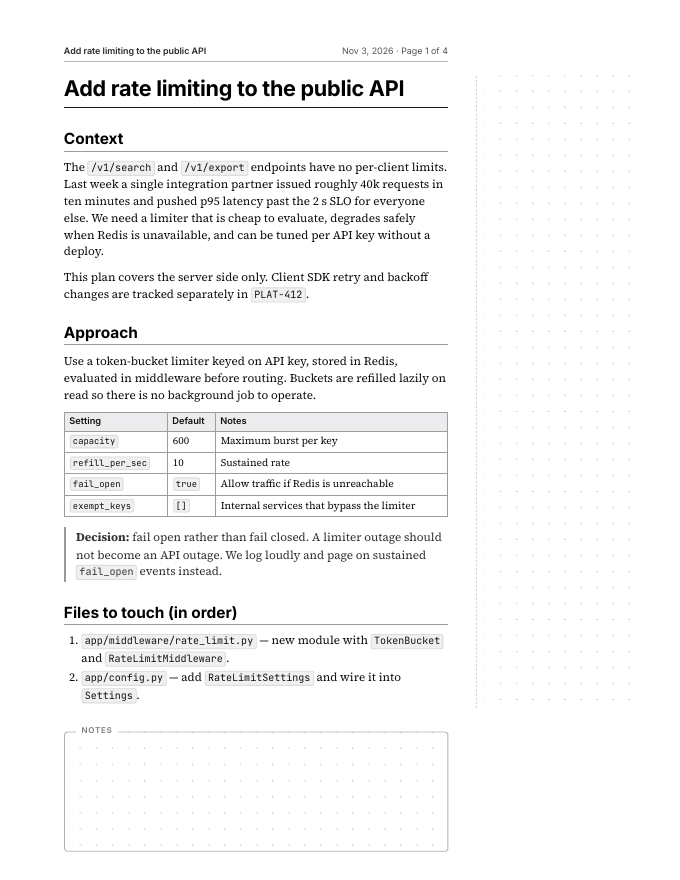
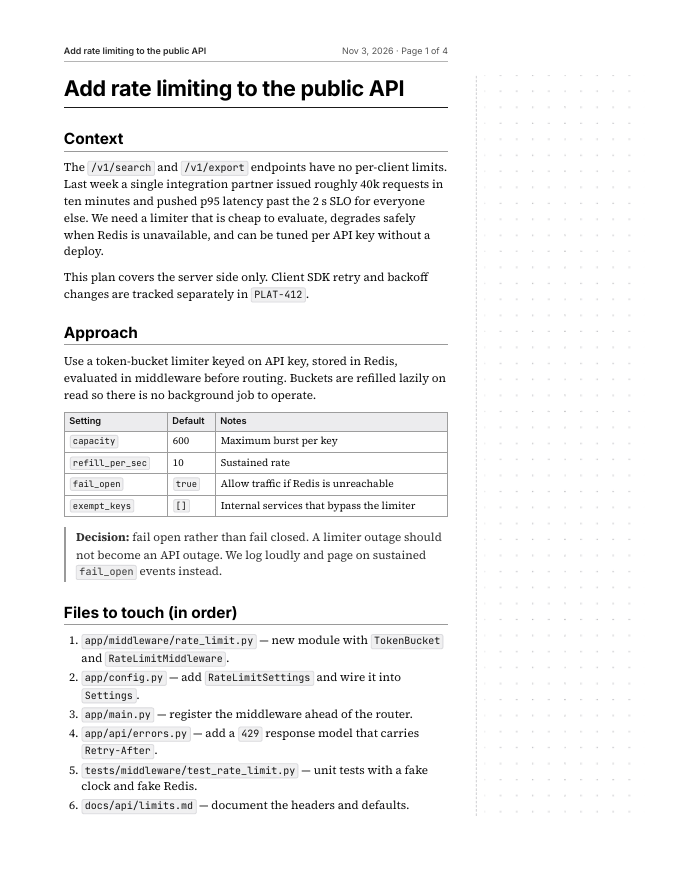
Margin notes layout: drop the bottom notes box
The right-hand dotted column now runs the full text height and replaces the
bottom box, which was redundant in this layout. The Notes box control is
disabled while Margin notes is selected; README and screenshot updated.

Changed region(s): [[0.0926, 0.7977, 0.6176, 0.9205]]

diff --git a/renderer/src/app.js b/renderer/src/app.js
@@ -36,6 +36,7 @@ const LAYOUTS = {
     top: 0.95, left: 1.25, right: 1.25, bodyPt: 11, marginColumn: false,
   },
   margin: {
+    // The dotted right-hand column replaces the bottom notes box in this layout.
     label: 'Margin notes — wide right column',
     top: 0.95, left: 0.8, right: 2.9, bodyPt: 10.5, marginColumn: true,
   },
@@ -315,7 +316,7 @@ function todayString() {
 function geometry(settings) {
   const paper = PAPERS[settings.paper] || PAPERS.letter;
   const layout = LAYOUTS[settings.layout] || LAYOUTS.review;
-  const notesH = (NOTES[settings.notes] || NOTES.medium).h;
+  const notesH = layout.marginColumn ? 0 : (NOTES[settings.notes] || NOTES.medium).h;
   // Notes box sits 0.35in above the sheet edge, with 0.3in between it and the text.
   const bottom = notesH > 0 ? Number((notesH + 0.35 + 0.3).toFixed(3)) : 0.8;
   return {
@@ -551,6 +552,9 @@ function syncControls() {
   els.pattern.value = PATTERNS[s.pattern] ? s.pattern : DEFAULTS.pattern;
   els.zoom.value = ZOOMS[s.zoom] ? s.zoom : DEFAULTS.zoom;
   els.breakH2.checked = Boolean(s.breakH2);
+  const usesMarginColumn = Boolean((LAYOUTS[s.layout] || LAYOUTS.review).marginColumn);
+  els.notes.disabled = usesMarginColumn;
+  els.notes.title = usesMarginColumn ? 'The Margin notes layout uses the right-hand column instead of a bottom box.' : '';
   els.title.value = s.title || '';
   els.date.value = s.date || '';
   els.app.classList.toggle('editor-hidden', !s.editorVisible);
@@ -564,7 +568,9 @@ function setStatus(text, isError = false) {
 
 function updateStatusRight() {
   const g = geometry(state.settings);
-  const notes = g.notesH > 0 ? `${g.notesH} in notes box` : 'no notes box';
+  const notes = g.layout.marginColumn
+    ? `${(g.layout.right - 0.8).toFixed(1)} in margin column`
+    : (g.notesH > 0 ? `${g.notesH} in notes box` : 'no notes box');
   els.statusRight.textContent =
     `${g.layout.label.split(' — ')[0]} · ${g.paper.label} · text area ${g.contentW} × ${g.contentH} in · ${notes}`;
 }
@@ -573,6 +579,7 @@ function bindSetting(el, key, { rerender = true, prop = 'value' } = {}) {
   el.addEventListener('change', () => {
     state.settings[key] = el[prop];
     saveSettings();
+    syncControls();
     if (rerender) scheduleRender(0);
     else applyZoom();
   });

diff --git a/test/run.js b/test/run.js
@@ -24,7 +24,7 @@ const sampleText = fs.readFileSync(sample, 'utf8');
 
 const scenarios = [
   { name: 'review-letter-medium-dots', settings: { layout: 'review', paper: 'letter', notes: 'medium', pattern: 'dots', breakH2: false }, minPages: 2 },
-  { name: 'margin-letter-small-dots', settings: { layout: 'margin', paper: 'letter', notes: 'small', pattern: 'dots', breakH2: false }, minPages: 2 },
+  { name: 'margin-letter-dots', settings: { layout: 'margin', paper: 'letter', notes: 'medium', pattern: 'dots', breakH2: false }, minPages: 2 },
   { name: 'dense-letter-small-lines', settings: { layout: 'dense', paper: 'letter', notes: 'small', pattern: 'lines', breakH2: false }, minPages: 1 },
   { name: 'review-a4-large-lines', settings: { layout: 'review', paper: 'a4', notes: 'large', pattern: 'lines', breakH2: false }, minPages: 2 },
   { name: 'review-letter-nonotes-blank', settings: { layout: 'review', paper: 'letter', notes: 'none', pattern: 'blank', breakH2: false }, minPages: 1 },

diff --git a/README.md b/README.md
@@ -15,13 +15,13 @@ printer or the PDF, page for page.
 | Review | Margin notes | Dense |
 | --- | --- | --- |
 | ![Review layout](docs/layout-review.png) | ![Margin notes layout](docs/layout-margin.png) | ![Dense layout](docs/layout-dense.png) |
-| Wide, symmetric 1.25 in side margins, 11 pt body. The default. | Narrow text column with a 2.9 in right margin holding a dotted column for line-by-line comments. | 0.75 in margins and 9.5 pt body for long plans. |
+| Wide, symmetric 1.25 in side margins, 11 pt body. The default. | Narrow text column with a 2.9 in right margin holding a full-height dotted column for line-by-line comments. No bottom notes box. | 0.75 in margins and 9.5 pt body for long plans. |
 
 Every layout also has:
 
 - **Paper**: US Letter (default) or A4.
-- **Notes box**: small (1.5 in), medium (2.25 in), large (3 in) or none.
-- **Pattern**: dot grid, ruled lines or blank, for the notes box and the margin column.
+- **Notes box** (Review and Dense): small (1.5 in), medium (2.25 in), large (3 in) or none.
+- **Pattern**: dot grid, ruled lines or blank, for the notes box or the margin column.
 - **New page at each H2**: one section per sheet for plans you want to shuffle.
 
 Code blocks keep their syntax highlighting and split between whole lines when they cross
